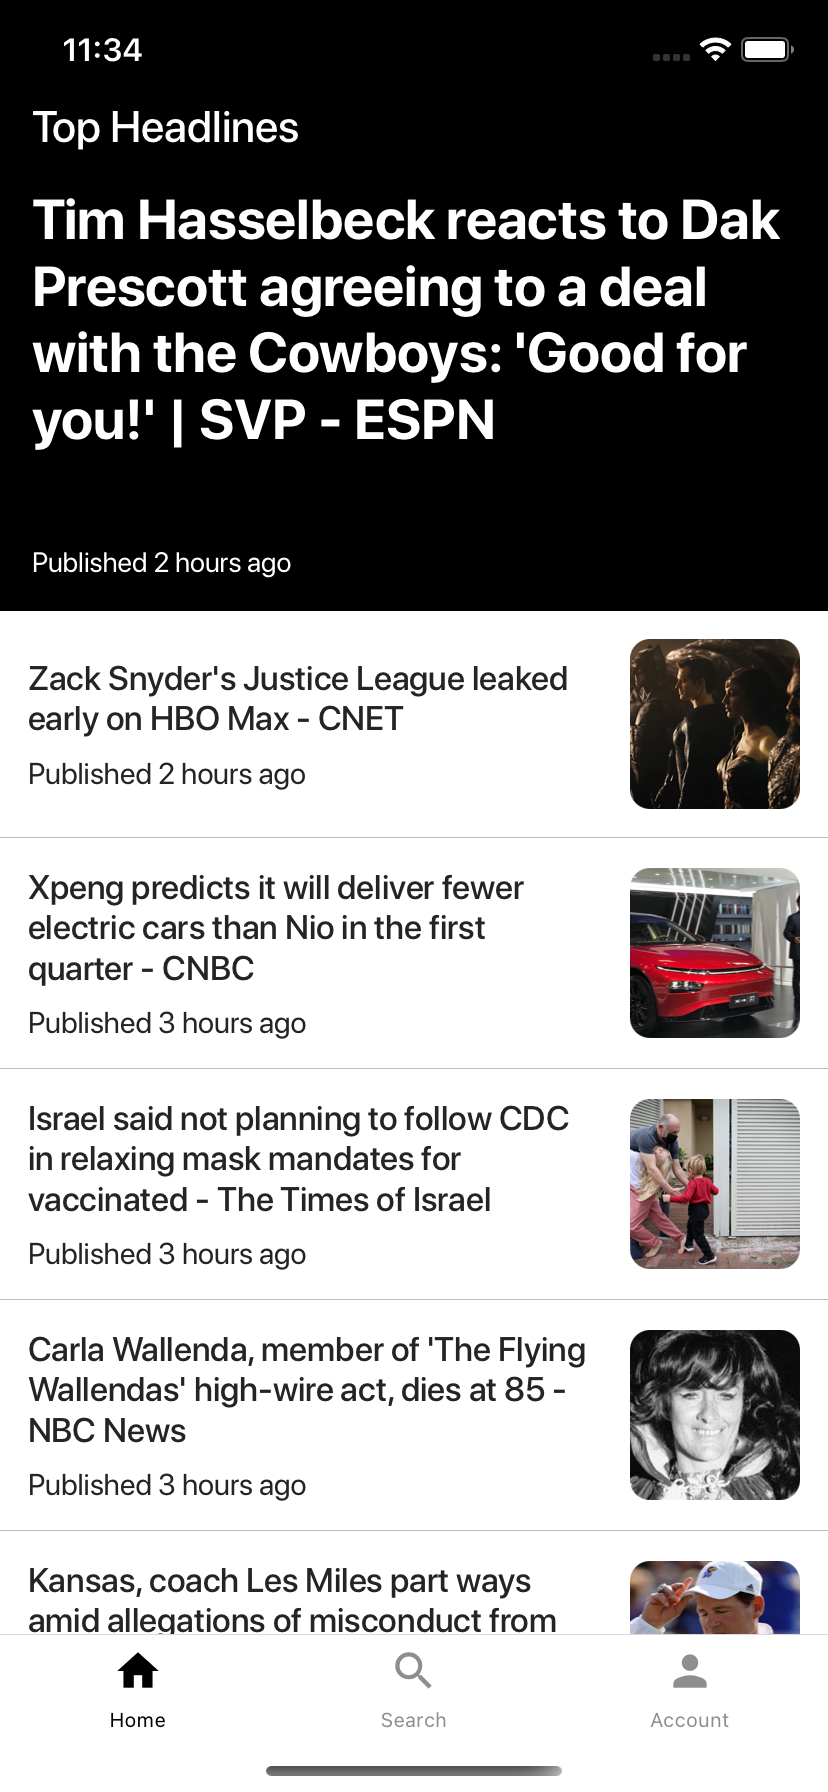
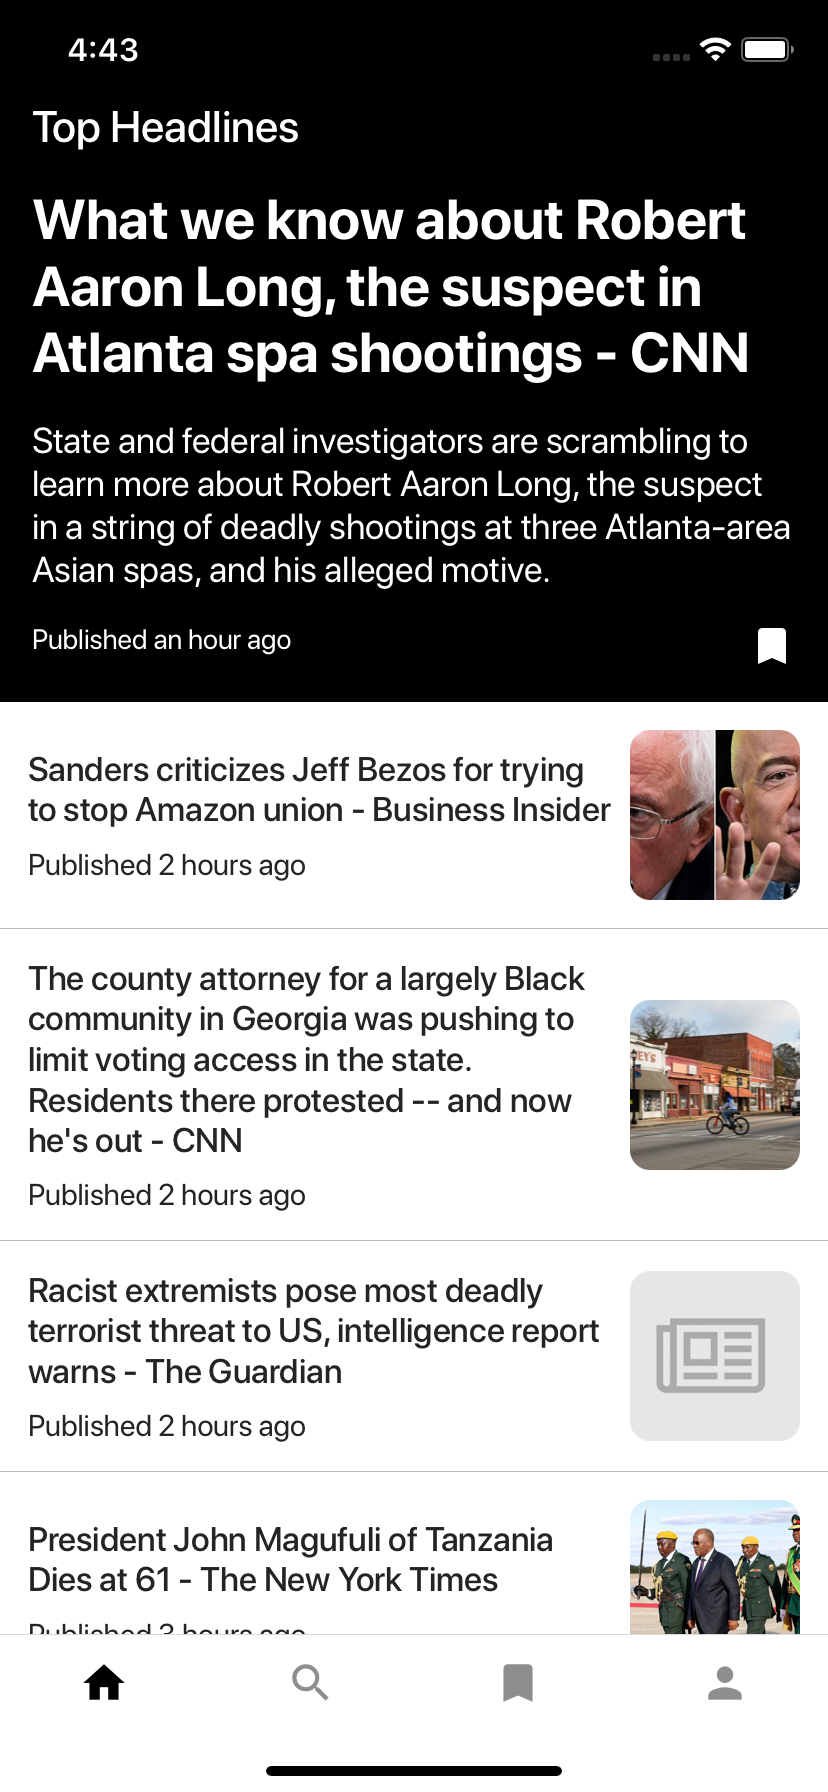
Updated readme description and pictures

Changed region(s): [[0.0, 0.0938, 1.0, 1.0], [0.0906, 0.0, 0.1812, 0.0312]]

diff --git a/README.md b/README.md
@@ -14,14 +14,15 @@ The app uses an easy to use UI so that only necessary information is displayed. 
 | --------------------------------------------- | ----------------------------------------------- |
 | <img src="images/Homepage.png" width="50%" /> | <img src="images/SearchPage.png" width="50%" /> |
 
-| Settings                                          | In-App Browser                                      |
-| ------------------------------------------------- | --------------------------------------------------- |
-| <img src="images/SettingsPage.png" width="50%" /> | <img src="images/In-App-Browser.png" width="50%" /> |
+| Account                                          | Saved Articles                                 |
+| ------------------------------------------------ | ---------------------------------------------- |
+| <img src="images/AccountPage.png" width="50%" /> | <img src="images/SavedPage.png" width="50%" /> |
 
-| More Information                              |
-| --------------------------------------------- |
-| <img src="images/MoreInfo.png" width="30%" /> |
-This page will only appear when a user sign's up with a third party such as google or apple
+| More Information                                     | In-App Browser                                      |
+| ---------------------------------------------------- | --------------------------------------------------- |
+| <img src="images/MoreInfo.png" width="50%" /> <br /> | <img src="images/In-App-Browser.png" width="50%" /> |
+
+
 
 ### Authenthication Methods
 - [x] Email & Password
@@ -36,15 +37,23 @@ This page will only appear when a user sign's up with a third party such as goog
   - If you used a third party sign in then you will be prompted to enter additional information such as username and an optional bio. This will not be prompted if you created an account using email and password. 
   - You will then be navigated to the home page this will contain the latest headlines based on the US. A future update will allow the user to choose a country as well as the news sources to filter by.
 
+### How To Bookmark or Save For Later
+- Once you are logged in you will see a list or articles
+- Either on the homepage or on the search page.
+- In order to **bookmark** an article simply swipe the article item to the right.
+- In order to **save for later** an article simply swipe the article item to the left.
+- You will be able to see this list in the saved articles page (bookmark icon on bottom tab bar)
+
 ### Search For An Article
 - Once logged in you head to the seach tab
 - You will then be able to search for particular news articles. 
 - If any found a list will be displayed. Click on either the title or image in order to open up the built-in browser.
-### Profile Page
-- Still in progress.
+### Account Page
+- This page will show user profile details
+- The main purpose of this page is to show list of settings such as signing out, edit profile, privacy policy, etc. 
 ### Settings
-- Once logged in head over to the Account tab.
-- There you will find a settings button. 
+- Go to account page
+- There you will find a list of setting options 
 - That will navigate you to the settings page where you will be able to edit your profile information, view privacy policy, reset password, or sign out.
 - More feature will be added to the settings page in a future update.
 
